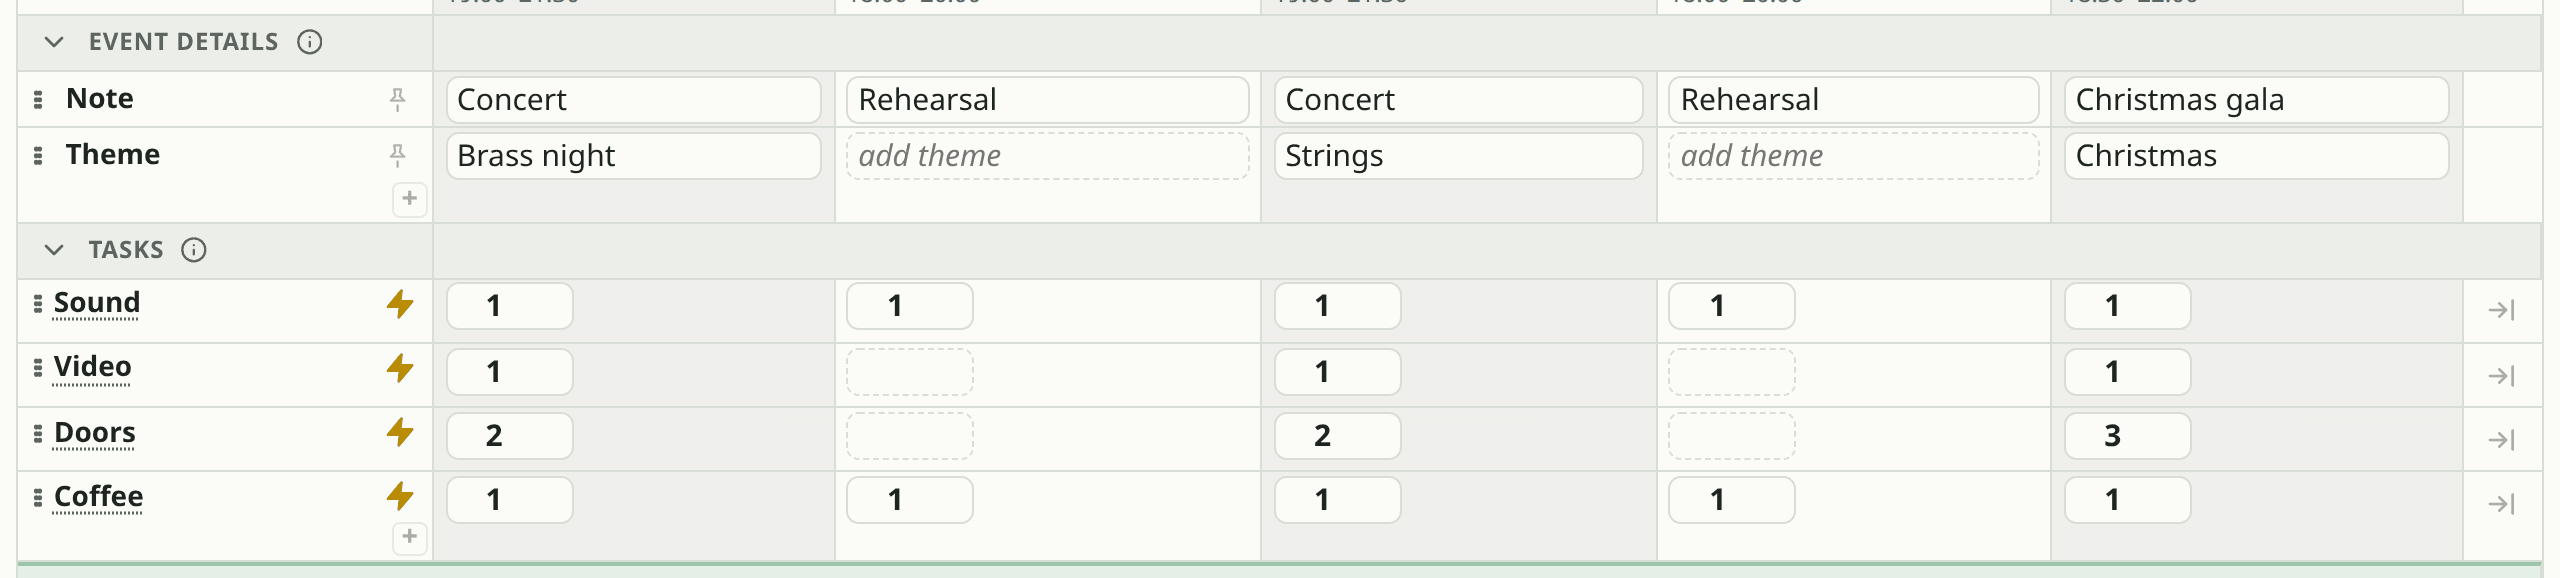
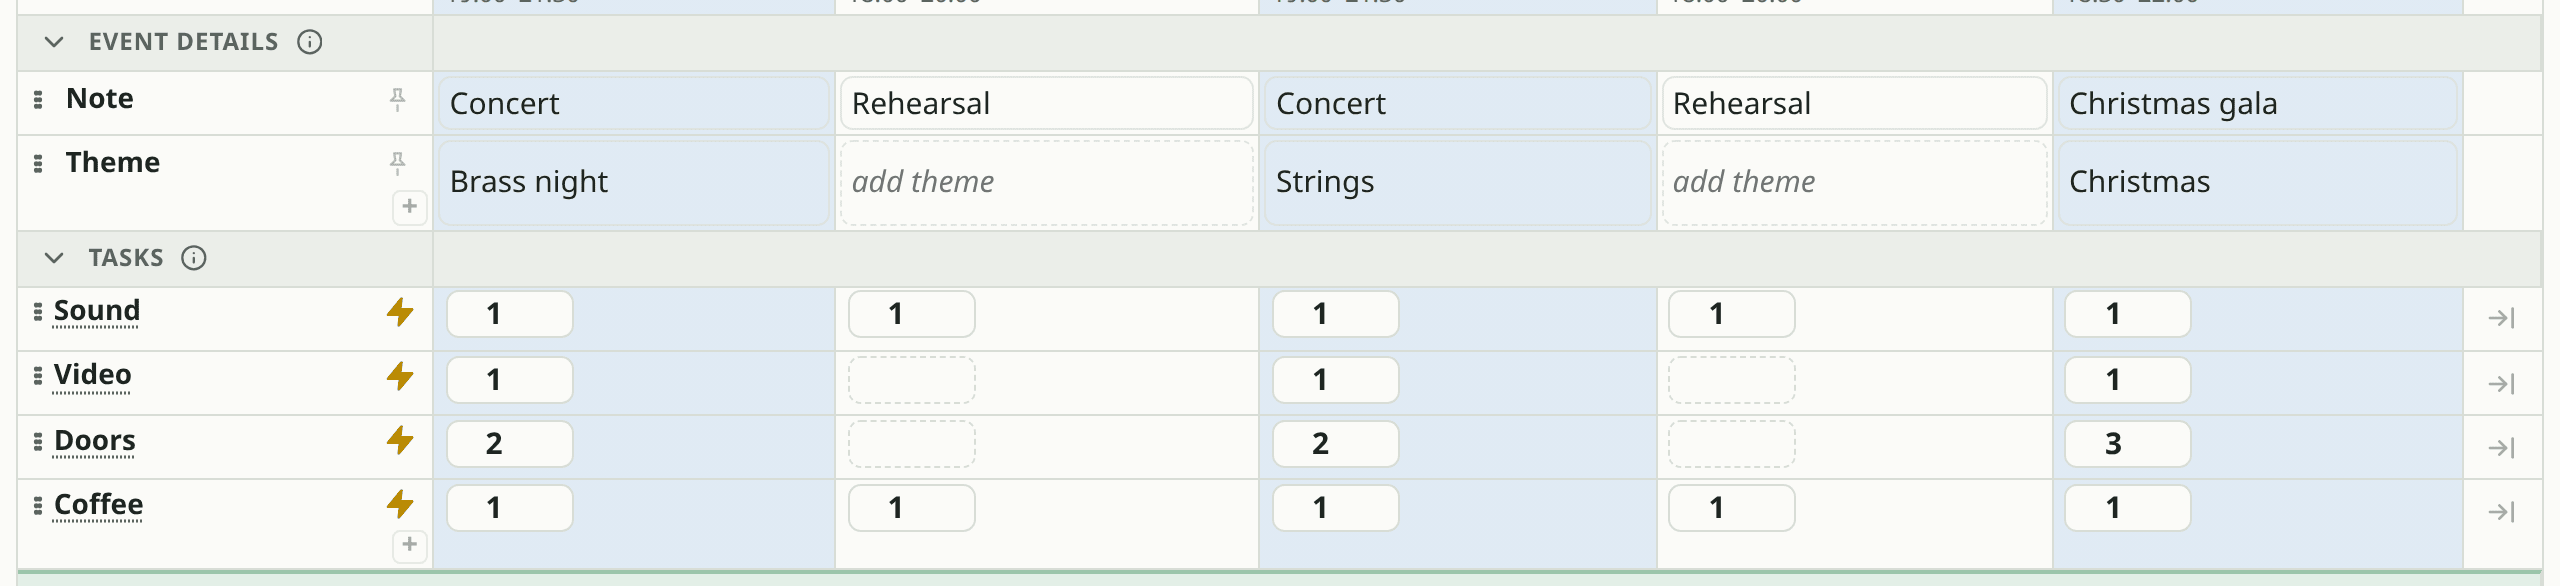
Faster redraws, quick clicks kept, blue column shade, full-cell details fields (#50)
* Faster redraws, quick clicks kept, blue column shade, full-cell details fields

- Dates are formatted with cached Intl.DateTimeFormats: toLocaleDateString
  per cell was over half of a redraw (50 people: 400 -> 160 ms, 4x slower
  CPU: 1.9 -> 0.55 s), which made setting a person's tasks lag.
- A level button no longer drops a click while saving: the shown level
  moves on at once and the last one shown is saved.
- Every other date is light blue instead of grey.
- A details value fills its cell, rounded, with the shade showing through.

* README pictures: the blue column shade

---------

diff --git a/web/app.js b/web/app.js
@@ -238,9 +238,21 @@ async function write(action) {
 }
 
 const enc = encodeURIComponent;
-const fmtTime = (iso) => new Date(iso).toLocaleString(locale(), { day: 'numeric', month: 'short', hour: '2-digit', minute: '2-digit' });
-const fmtDate = (iso) => new Date(iso + 'T00:00:00Z').toLocaleDateString(locale(), { weekday: 'short', day: 'numeric', month: 'short', year: 'numeric', timeZone: 'UTC' });
-const fmtShortDate = (iso) => new Date(iso + 'T00:00:00Z').toLocaleDateString(locale(), { weekday: 'short', day: 'numeric', month: 'short', timeZone: 'UTC' });
+// Dates are formatted with one Intl.DateTimeFormat per language and shape, and each date once: toLocaleDateString builds
+// a new formatter every call, and the table names a date in every cell (it was over half of a redraw with 50 people).
+const formats = new Map();
+const formatted = (shape, opts, value, date) => {
+  const k = locale() + ' ' + shape;
+  let f = formats.get(k);
+  if (!f) { f = { fmt: new Intl.DateTimeFormat(locale(), opts), memo: new Map() }; formats.set(k, f); }
+  let out = f.memo.get(value);
+  if (out === undefined) { out = f.fmt.format(date(value)); f.memo.set(value, out); }
+  return out;
+};
+const utcDay = (iso) => new Date(iso + 'T00:00:00Z');
+const fmtTime = (iso) => formatted('time', { day: 'numeric', month: 'short', hour: '2-digit', minute: '2-digit' }, iso, (x) => new Date(x));
+const fmtDate = (iso) => formatted('date', { weekday: 'short', day: 'numeric', month: 'short', year: 'numeric', timeZone: 'UTC' }, iso, utcDay);
+const fmtShortDate = (iso) => formatted('short', { weekday: 'short', day: 'numeric', month: 'short', timeZone: 'UTC' }, iso, utcDay);
 const addDays = (iso, n) => { const d = new Date(iso + 'T00:00:00Z'); d.setUTCDate(d.getUTCDate() + n); return d.toISOString().slice(0, 10); };
 // The dates «every N weeks until» (the server makes the same, store.repeatEvery): from each start date, every 7·every
 // days up to and including until, without repeats. every 0 is no repeat.
@@ -792,13 +804,18 @@ function cycle(kind, level, aria, onNext) {
     b.setAttribute('aria-label', `${aria}: ${text(l)}`);
     b.replaceChildren(icon(LEVEL_ICON[l]));
   };
-  let busy = false;
+  // Quick clicks are not dropped: each moves the shown level on at once; one save runs at a time, and when it is done the
+  // level shown last is saved (the steps in between never are). A refused save goes back to what was saved.
+  let shown = level, busy = false;
   b.addEventListener('click', async () => {
+    shown = kind === 'task' ? TASK_NEXT[shown] : COMBO_NEXT[shown];
+    paint(shown);
     if (busy) return;
     busy = true;
-    const next = kind === 'task' ? TASK_NEXT[level] : COMBO_NEXT[level];
-    paint(next);
-    if (await onNext(next)) level = next; else paint(level);
+    while (shown !== level) {
+      const want = shown;
+      if (await onNext(want)) level = want; else { shown = level; paint(level); }
+    }
     busy = false;
   });
   paint(level);

diff --git a/web/style.css b/web/style.css
@@ -627,10 +627,15 @@ td.answer.has-note .note-tab::after { border-color: transparent #d97706 transpar
 .grid-scroll.main tr.field-row.frozen > td.suggesting { z-index: 5; }
 /* every other date a little darker, down the whole table, to follow a column (2026-11-23, the user: "alternativt background colors to
    aid navigation"); an image over the cell's own colour, so the colours of answers, the draft and a selection stay */
-.dp-table { --alt: color-mix(in srgb, var(--fg) 5.5%, transparent); }
+.dp-table { --alt: color-mix(in srgb, #2f7fd8 13%, transparent); }
+@media (prefers-color-scheme: dark) { .dp-table { --alt: color-mix(in srgb, #5aa2f0 13%, transparent); } }
 .dp-table thead th:nth-child(even):not(.corner), .dp-table tbody tr > td:nth-child(even):not([colspan]):not(.addcol) { background-image: linear-gradient(var(--alt), var(--alt)); }
 /* suggestions under a field of a details row: the list of the draft's name field */
 .dp-table td.text { position: relative; }
+/* a details value fills its cell, only rounded; the column's shade shows through until it is typed in */
+.dp-table tr.field-row > td.text { padding: 2px 2px; height: 1px; } /* height 1px: a definite height, so the field can take 100 % of the row */
+.dp-table tr.field-row td.text input { height: 100%; min-height: 1.7rem; border-radius: .4rem; background: transparent; border-color: color-mix(in srgb, var(--line) 70%, transparent); }
+.dp-table tr.field-row td.text input:focus { background: var(--bg); }
 .dp-table td.text.suggesting { z-index: 4; }
 .dp-table td.text .elist { position: absolute; z-index: 6; top: 100%; left: 0; min-width: 100%; margin: 2px 0 0; padding: .2rem; list-style: none; max-height: 14rem; overflow: auto;
   background: var(--bg); border: 1px solid var(--line); border-radius: .4rem; box-shadow: 0 6px 20px rgba(0, 0, 0, .14); font-size: .85rem; }

diff --git a/scripts/ui-check.js b/scripts/ui-check.js
@@ -399,6 +399,23 @@ const { spawn } = require('child_process');
       }
       await closeDialog();
     };
+    // quick clicks are not dropped (the save of the first is still under way): two at once go to good, and that is what is saved
+    {
+      const pia = () => dialog.locator('button.cyc[aria-label^="Sound for Pia Demo:"]');
+      const level = async () => { await page.click('button[aria-label="Open Pia Demo"]'); const l = await pia().getAttribute('data-level'); await closeDialog(); return l; };
+      await page.click('button[aria-label="Open Pia Demo"]');
+      await pia().evaluate((b) => { b.click(); b.click(); });
+      ok((await pia().getAttribute('data-level')) === 'good', 'two quick clicks show good at once');
+      await closeDialog();
+      await page.waitForTimeout(600);
+      await page.reload();
+      await page.waitForSelector('.dp-table');
+      ok((await level()) === 'good', 'and good is saved');
+      await page.click('button[aria-label="Open Pia Demo"]');
+      await reopens(() => pia().click(), 'the person dialog opens again');
+      await closeDialog();
+      ok((await level()) === 'none', 'one more click: can’t again');
+    }
     await takes('Kari Test', [['Sound', 'good'], ['Video', 'poor']]);
     await takes('Ola Sample', [['Sound', 'good']]);
     await takes('Jon Demo', [['Sound', 'poor'], ['Video', 'good']]);

diff --git a/CLAUDE.md b/CLAUDE.md
@@ -206,8 +206,12 @@ starts the Python planner, turns the answer into a view with explanations), `int
 - **Little help text on the page** (2026-11-20): explanations are behind ⓘ buttons (`infoBtn`, or `{ info: [...] }` as modal()'s first argument).
   Every choice with three levels is an icon: red thumb down (can't / no), yellow ? (if needed / maybe), green thumb up (good / yes).
   The main table scrolls inside the window (dates and names stay put); ‹ › / the calendar button (next event from today) / wheel over the dates / arrow keys / dragging move sideways.
-- **Every other date is shaded** (2026-11-23, the user: "alternativt background colors to aid navigation"): `--alt` as a background-image on
-  even columns (thead th, tbody td without colspan), so the cells' own colours stay.
+- **Every other date is shaded** (2026-11-23, the user: "alternativt background colors to aid navigation"): `--alt` (a light blue since 2026-11-23,
+  the user: "more colorful. Maybe light green? Or light blue?"; green is taken by the draft) as a background-image on even columns (thead th,
+  tbody td without colspan), so the cells' own colours stay. A details value fills its cell with rounded corners and lets the shade through.
+- **Redraws must stay cheap** (2026-11-23, the user: lag when setting a person's tasks): a change redraws the whole table, so anything done
+  per cell counts. Dates go through cached `Intl.DateTimeFormat`s (`formatted`): `toLocaleDateString` per cell was over half of a redraw
+  with 50 people. Level buttons (`cycle`) never drop a quick click; one save at a time, the last level shown is what is saved.
 - **Moving rows and the add lines** (2026-11-23, the user: "Let the drag and drop of people easier. Hide the add people icon under a small
   plus symbol at the end of the last cells, where clicking it makes it a minus and collapse it"): rows move by pointer events, not HTML
   drag (`onRowDown` on the table; `handleFor` marks ⋮⋮, `dropOn(row, accept, act(item, after, kind), into)`): with a mouse the whole name
